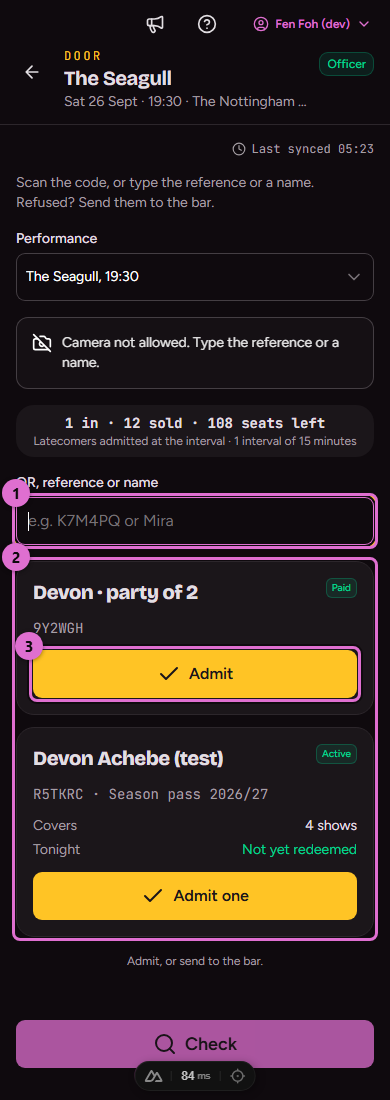
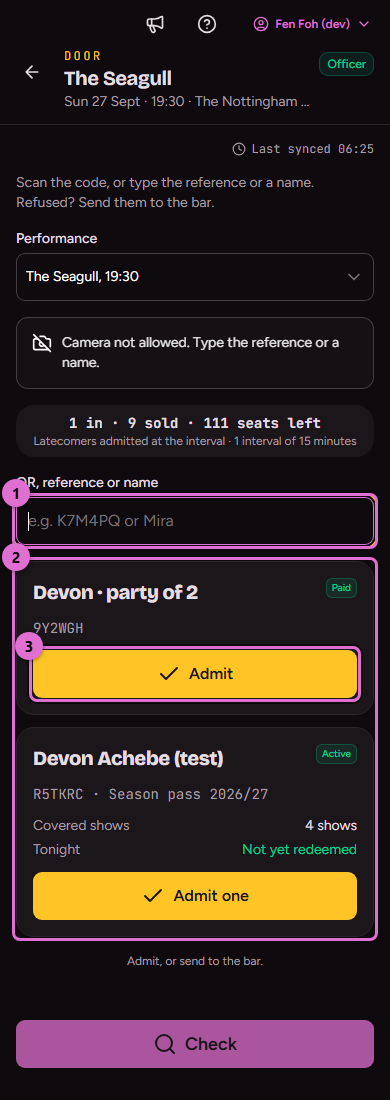
Label the door pass card's covered shows as the pass types screen does, and retake the door search picture

diff --git a/app/components/DoorResults.vue b/app/components/DoorResults.vue
@@ -116,7 +116,7 @@ function admitPass(pass: DoorPassCard): void {
       <dl class="space-y-1 text-sm">
         <div class="flex justify-between gap-3">
           <dt class="text-muted">
-            Covers
+            Covered shows
           </dt>
           <dd class="text-right">
             {{ pass.covers }}

diff --git a/content/docs/03.tonight/1.door.md b/content/docs/03.tonight/1.door.md
@@ -109,8 +109,8 @@ running.
 3. **Admit** on a paid booking admits it and shows the verdict. An unpaid one says **Send to the
    bar with this ticket** instead, and one already in says when.
 
-A pass is never admitted blind: its card shows the holder, whether the pass is **Active**, what
-it covers (a fellowship covers every in-house show), tonight's state (**Not yet redeemed**,
+A pass is never admitted blind: its card shows the holder, whether the pass is **Active**, its
+**Covered shows** (a fellowship covers every in-house show), tonight's state (**Not yet redeemed**,
 **Redeemed, not yet in**, **Already admitted tonight**) and when it was last used. Where the pass
 would be refused, the card says so instead of offering the button. Otherwise press **Admit one**:
 a pass admits its holder and nobody else, and creates tonight's £0 pass-admission ticket for the
